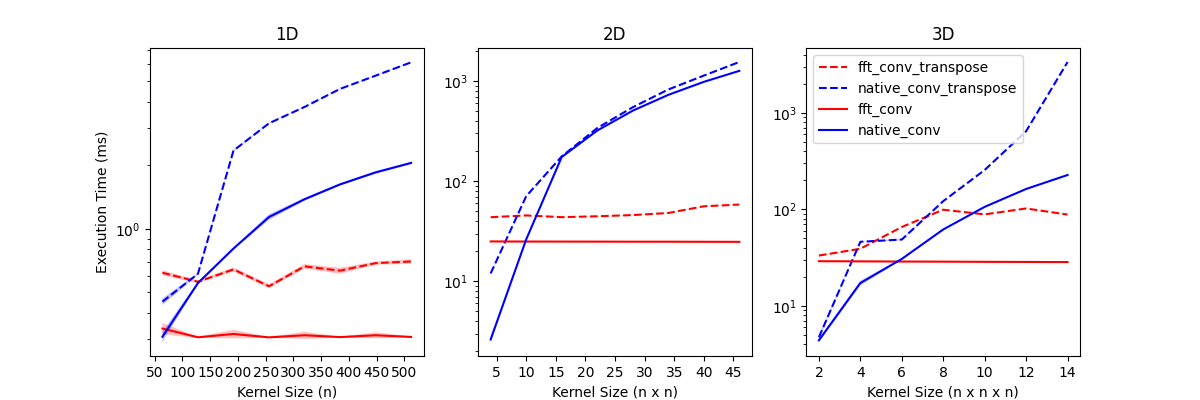
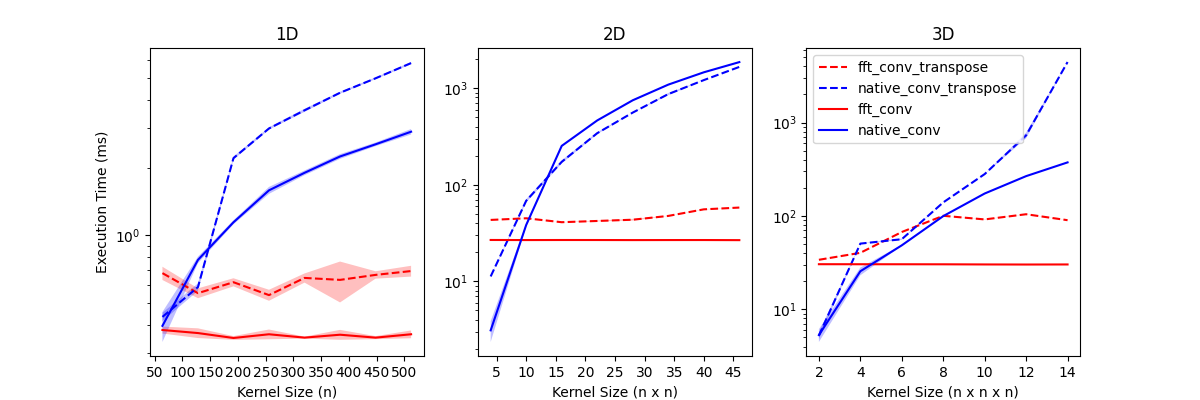
Intermediate memory reduction patch

diff --git a/fft_conv_pytorch/functional.py b/fft_conv_pytorch/functional.py
@@ -152,14 +152,15 @@ def fft_conv_transpose(
             output_padding_,
         )
     ]
-
-    # Perform fourier convolution -- FFT, matrix multiply, then IFFT
-    signal_fr = rfftn(signal_, interm_shape, dim=tuple(range(2, signal.ndim)))
-    kernel_fr = rfftn(kernel_, interm_shape, dim=tuple(range(2, signal.ndim)))
-
-    output_fr = complex_matmul(signal_fr, kernel_fr.conj(), groups=groups)
-    output = irfftn(output_fr, dim=tuple(range(2, signal.ndim)))
-    output = output[
+    output = irfftn(
+        complex_matmul(
+            rfftn(signal_, interm_shape, dim=tuple(range(-n, 0))),
+            rfftn(kernel_, interm_shape, dim=tuple(range(-n, 0))).conj(),
+            groups=groups,
+        ),
+        interm_shape,
+        dim=tuple(range(-n, 0)),
+    )[
         (
             slice(None),
             slice(None),
